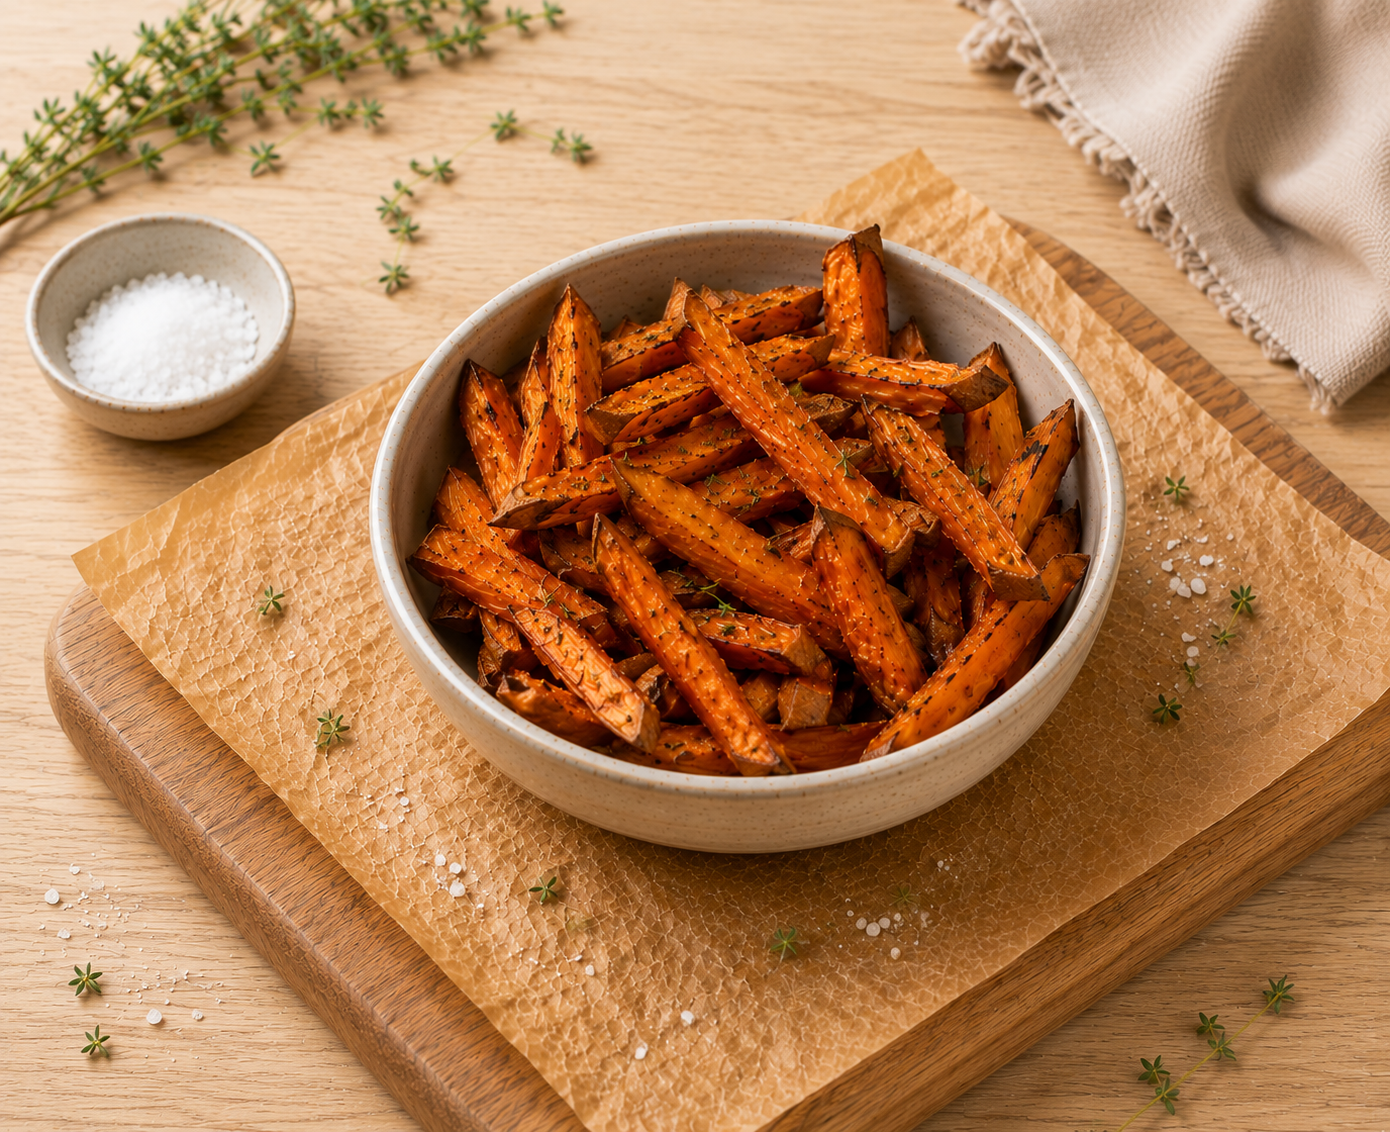
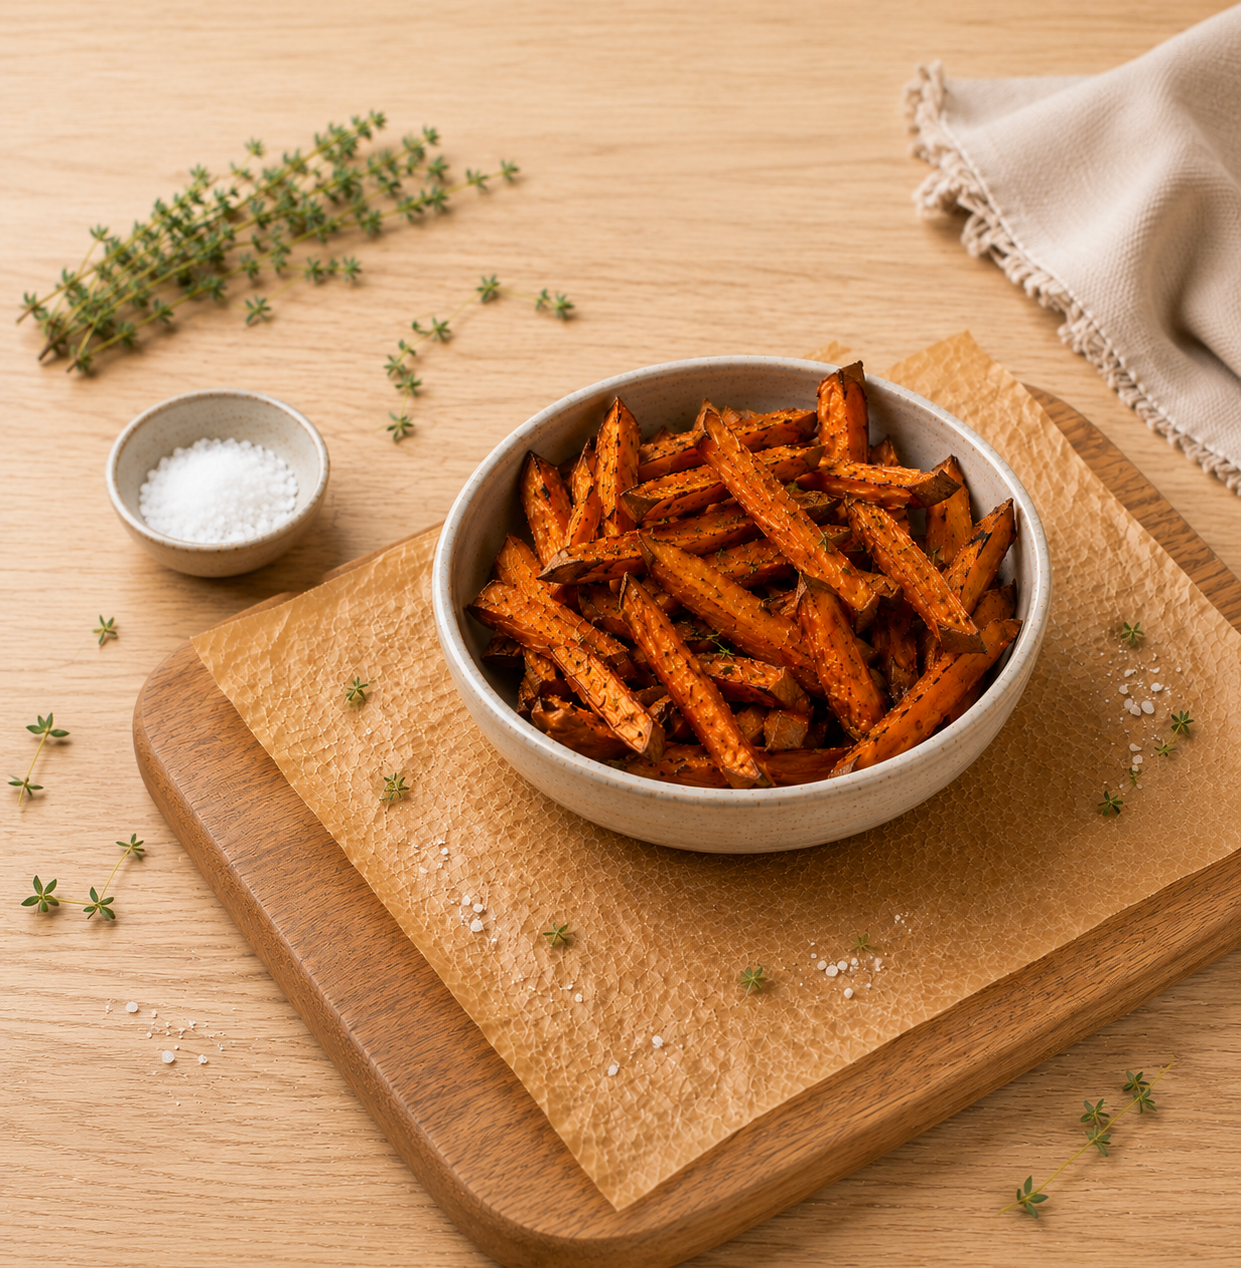
Frites patates douces : nouvelle image + composition

diff --git a/src/data/products.ts b/src/data/products.ts
@@ -608,7 +608,7 @@ export const allProducts: Product[] = [
     category: "Extra",
     img: "/frites-patate-douce.png",
     desc: "",
-    composition: [],
+    composition: ["Patates douces", "Fleur de sel", "Sauce fraîche aux herbes"],
   },
   {
     id: "halloumi-grille",